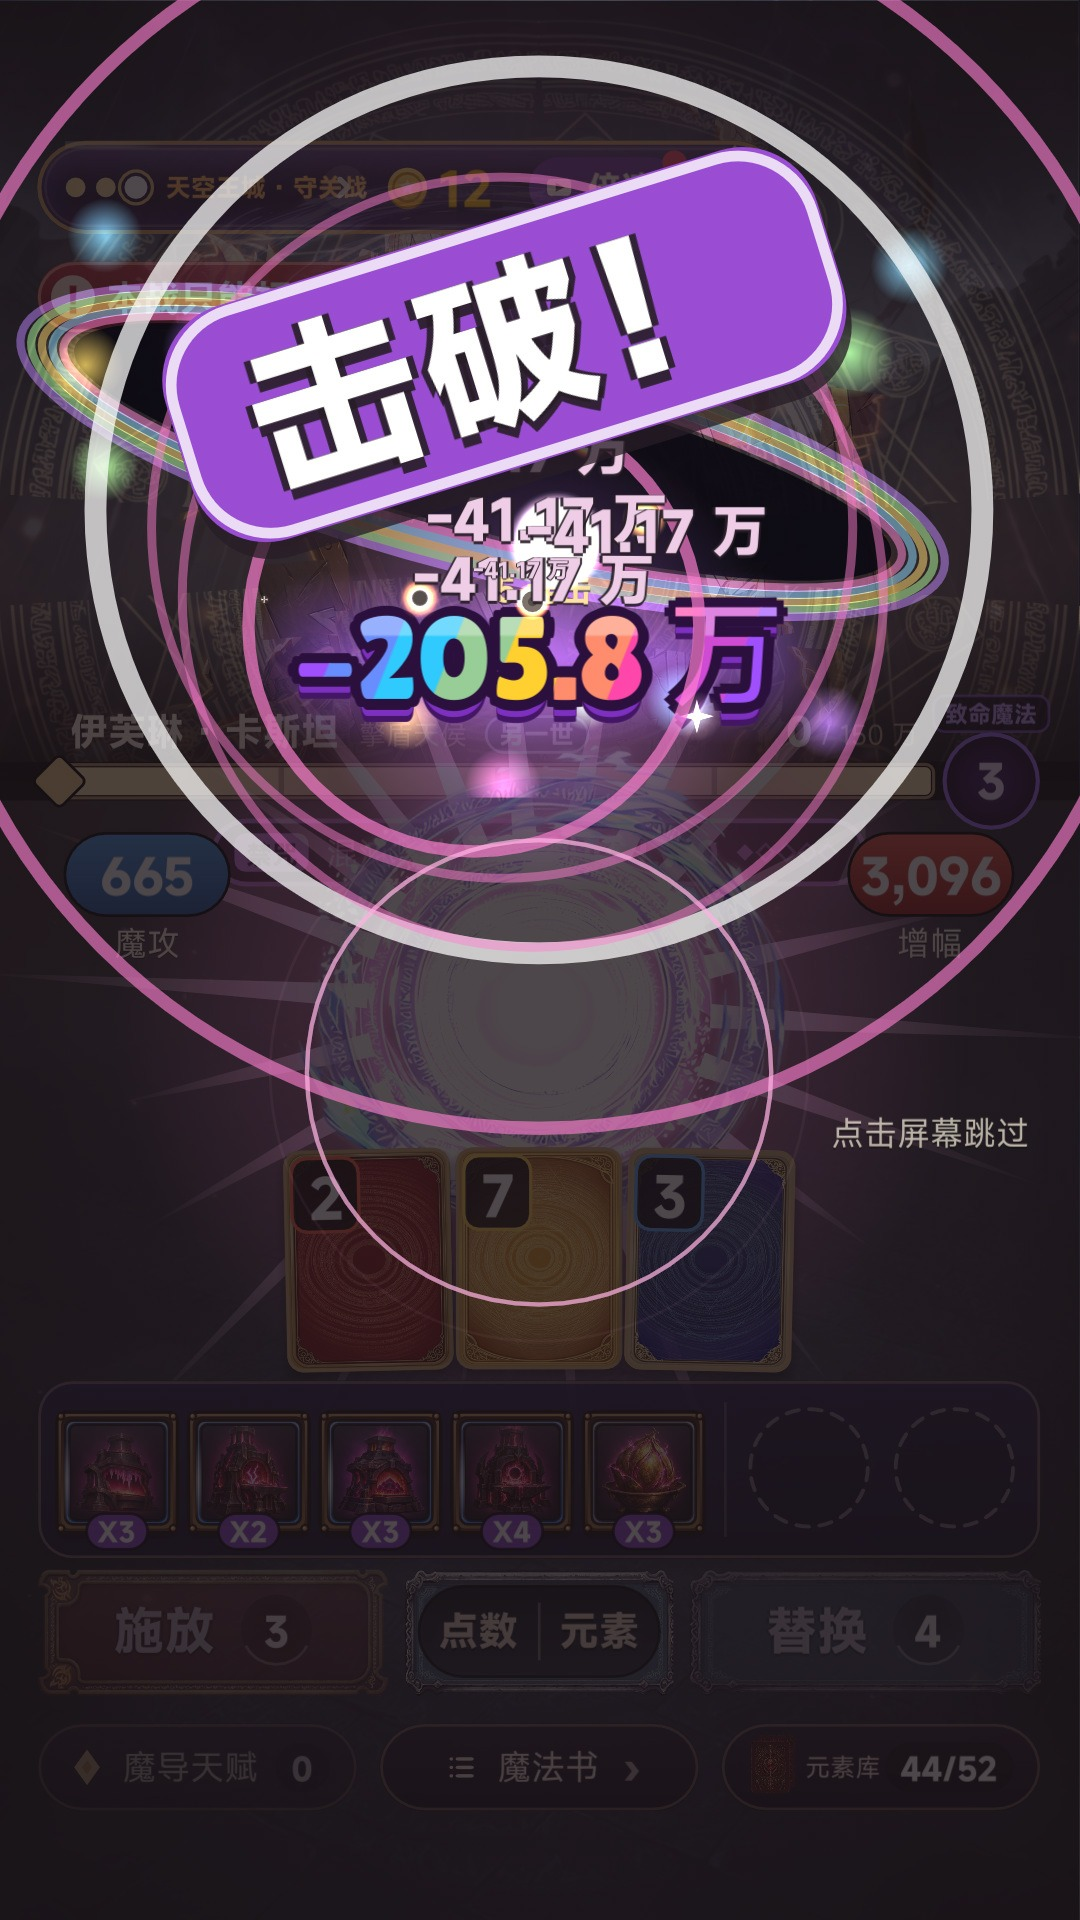
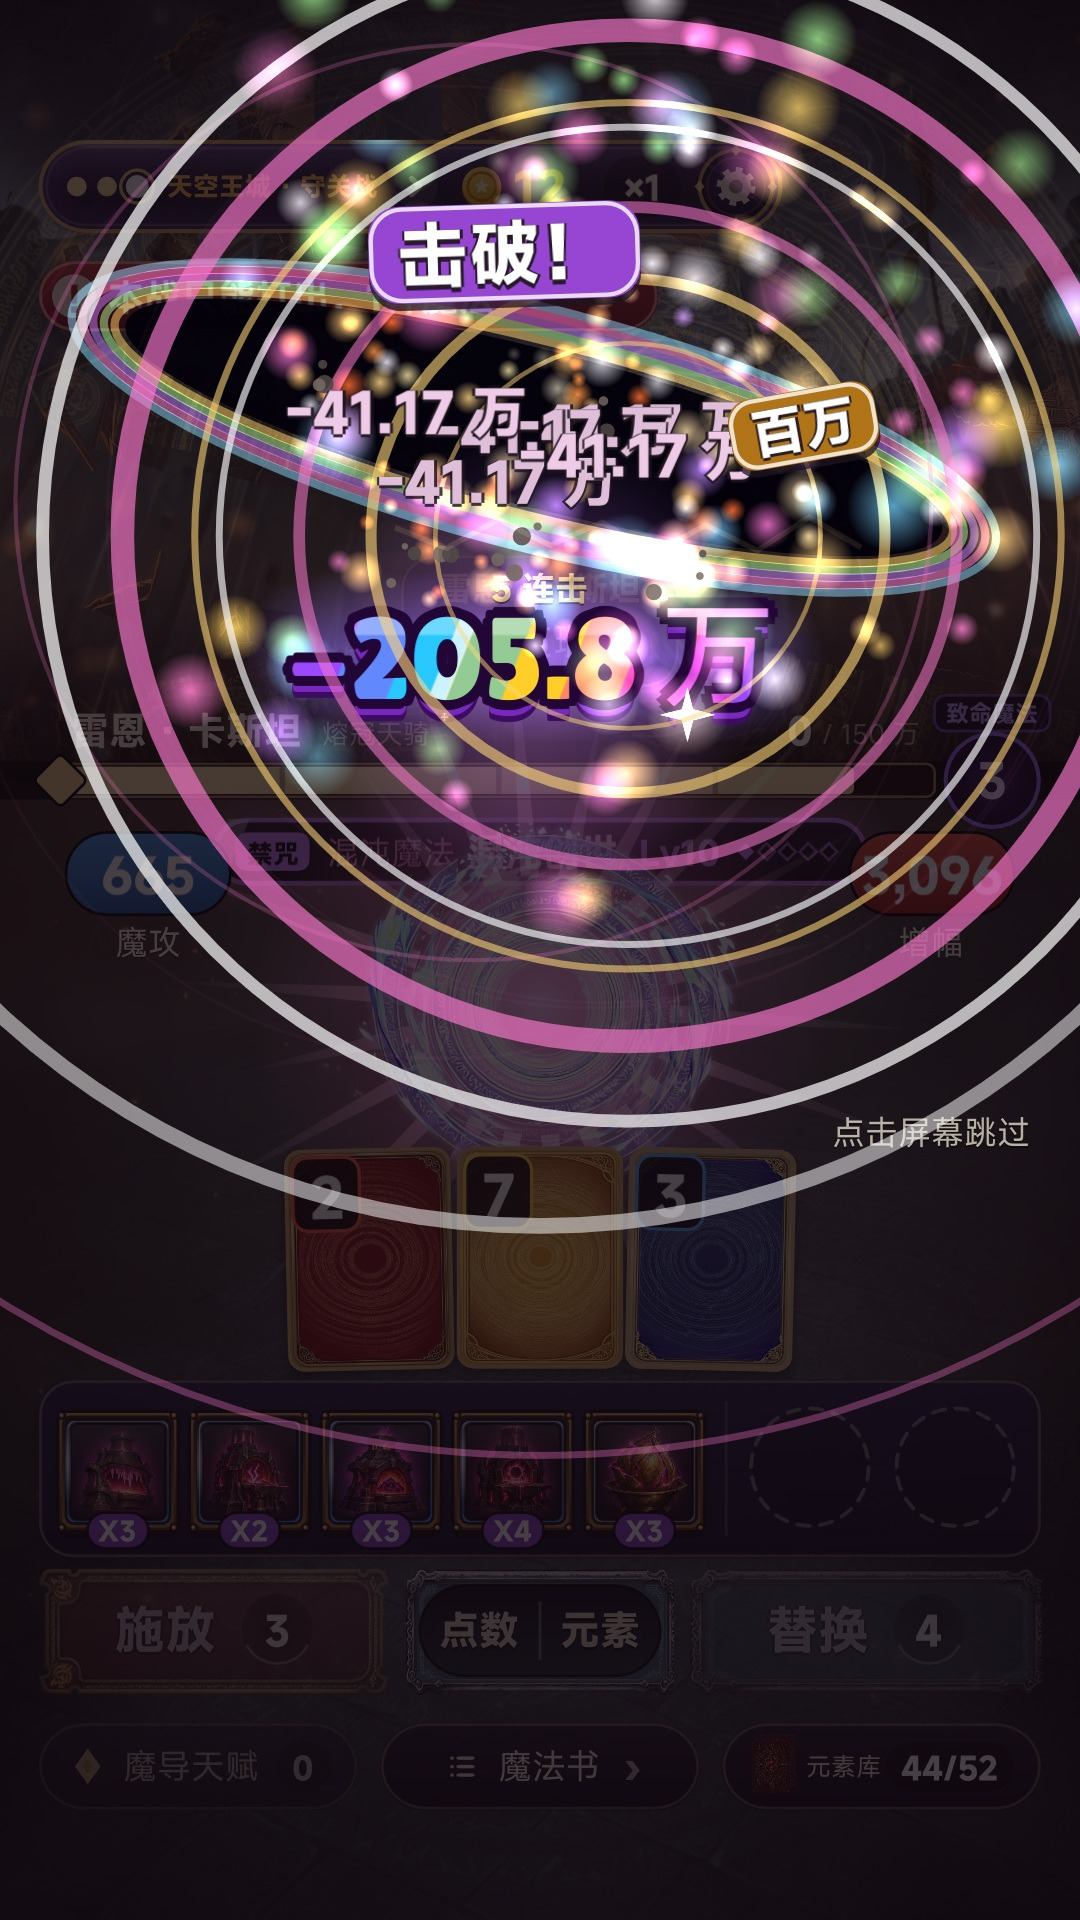
shoucuo 11-09 商店素材审阅页：峰值截图按最新 HEAD 重拍，补 11-11 现状和上传计划

diff --git a/shoucuo-review-1109-store/index.html b/shoucuo-review-1109-store/index.html
@@ -29,7 +29,7 @@ code{background:#2a2340;padding:1px 5px;border-radius:4px;font-size:12.5px}
 </div></div>
 <div class="box"><b>新（建议的商店顺序）</b>：点图看原图。
 <div class="row">
-<figure><a href="new/1_peak_2058w.jpg"><img src="new/1_peak_2058w.jpg"></a><figcaption>① 守关战 禁咒·混沌创世命中：「击破！−205.8 万」在画面中央、数字最大的那一帧；下面的元素卡和 5 件装备（×3 ×2 ×3 ×4 ×3）、魔攻 665 × 增幅 3,096 都在</figcaption></figure>
+<figure><a href="new/1_peak_2058w.jpg"><img src="new/1_peak_2058w.jpg"></a><figcaption>① 守关战（雷恩·卡斯坦）禁咒·混沌创世命中：「击破！−205.8 万」+ C5 破阶「百万」印章（11-11 按 HEAD 540842d 重拍）在画面中央、数字最大的那一帧；下面的元素卡和 5 件装备（×3 ×2 ×3 ×4 ×3）、魔攻 665 × 增幅 3,096 都在</figcaption></figure>
 <figure><a href="new/2_jinzhou_time.jpg"><img src="new/2_jinzhou_time.jpg"></a><figcaption>② 禁咒全屏演出「时间终结」（时间魔法 Lv10）。换掉旧的万物归暗，和录屏里的混沌创世也不重复</figcaption></figure>
 <figure><a href="new/3_vesta_palm_cg.jpg"><img src="new/3_vesta_palm_cg.jpg"></a><figcaption>③ 薇丝塔「掌贴掌」CG，游戏内 CG 播放器原样截图：标题「薇丝塔 · 一 / 掌贴掌」、字幕「手给我。……掌心朝着我，别缩。」、「跳过」按钮</figcaption></figure>
 <figure><a href="new/4_firstspell.jpg"><img src="new/4_firstspell.jpg"></a><figcaption>④ 魔蚀荒原第 1 战，初级 火魔法·火星 Lv2：双手 + 火系法阵，魔蚀学徒身上 −52</figcaption></figure>
@@ -106,4 +106,14 @@ code{background:#2a2340;padding:1px 5px;border-radius:4px;font-size:12.5px}
 <li>首页推荐这次保持 BANNER_4。</li>
 </ol>
 <p class="sub">确认后再上传、写入草稿、和最新 Spark 一起提审（保持预约）。</p></div>
+<h2>6. 11-11 现状和上传计划（没有执行）</h2>
+<div class="box">
+<p class="warn">11-10 改版已经用过这里的素材（截图 2–7、实机录屏 6079173、宣传片 v5 6079134 是 v4 换了「一手牌搓出一个亿」开场 / 片尾），11-11 全部改回了 V-20261108-1。现在草稿 V-20261112-2 里：截图 = 旧 7 张，实机录屏 = 6065360，宣传片 = null（6079134 仍挂在商店页，要在后台网页删），首页推荐 = BANNER_4。</p>
+<ol>
+<li>截图：新传 2 张（① 峰值帧，按 HEAD 540842d 重拍，带 C5「百万」印章；⑦ 营地），② – ⑥ 复用 11-10 已上传的链接。</li>
+<li>实机录屏：用已上传的 6079173。</li>
+<li>宣传片：上传 v4 原片（还没传过），先在网页删掉 6079134。</li>
+<li>首页推荐：保持 BANNER_4。</li>
+<li>主包体换最新 Spark，提审，保持预约。</li>
+</ol></div>
 </main></body></html>
